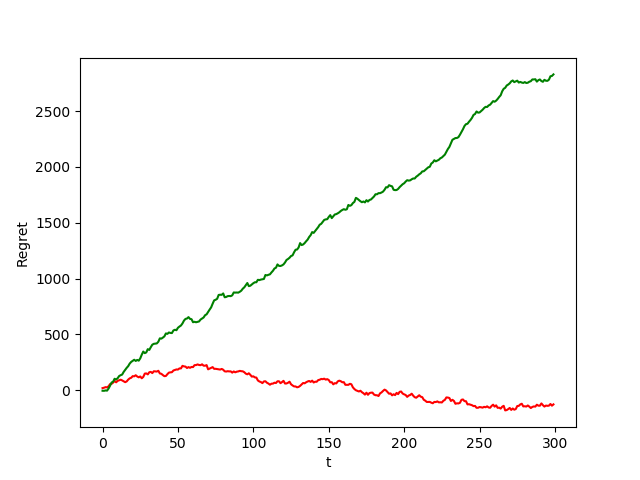
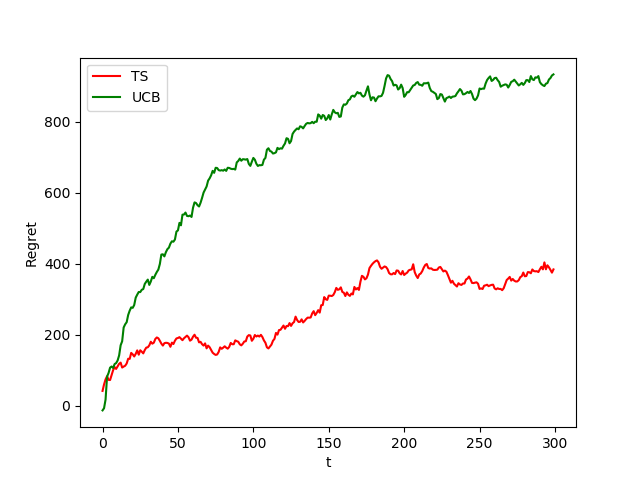
update ucb

diff --git a/simulator.py b/simulator.py
@@ -12,8 +12,8 @@ from pricing_env import UserClass
 import matplotlib.pyplot as plt
 from scipy.ndimage import uniform_filter1d
 
-np.random.seed(seed=1111)
-random.seed(1111)
+np.random.seed(seed=3259414887)
+#random.seed(1111)
 
 T = 100
 
@@ -102,284 +102,6 @@ class Simulator:
         opt = np.sum(opt)
         print(f"Bruteforce\n Max reward: {opt}\n Best configuration: {best_conf}")
         return opt, best_conf
-
-    def step2(self):
-        n_experiments = 1
-        time_horizon = 100
-        final_max_reward = 0
-        final_max_price_conf = np.zeros(self.n_products, dtype=np.int8)
-
-        for e in range(n_experiments):
-            learner = Greedy_Learner(self.n_prices, self.n_products)
-
-            print("Exp:", e)
-            temp_id = -1
-            max_reward = 0
-            temp_max = 0
-            max_price_conf = np.zeros(self.n_products, dtype=np.int8)
-            temp_max_conf = max_price_conf
-            counter = -1
-            price_conf_history = np.empty((0, self.n_products))
-
-            for t in range(time_horizon):
-                price_conf = learner.pull_arm(counter, max_price_conf)
-                reward = 0
-                if not price_conf.tolist() in price_conf_history.tolist():
-                    price_conf_history = np.concatenate(
-                        (price_conf_history, [price_conf]), axis=0)
-                    # reward, cr, none, none = self.simulate(price_conf, users=100)
-                    for i, j in enumerate(price_conf):
-                        reward += cf.margin[i, j] * cf.cr_mean[i, j] * cf.alphas_mean[i + 1]
-                        # print(reward)
-                    print(price_conf, np.round(reward, 2), np.sum(reward))
-                    # trova un nuovo max
-                    if counter == -1:
-                        max_reward = reward
-                        max_price_conf = price_conf
-                        learner.update()
-                    elif np.sum(reward) > np.sum(temp_max):
-                        temp_max = reward
-                        temp_max_conf = price_conf
-                        temp_id = counter
-
-                counter += 1
-
-                if counter == self.n_products:
-                    counter = 0
-                    if np.sum(temp_max) >= np.sum(max_reward):
-                        max_reward = temp_max
-                        max_price_conf = temp_max_conf
-                        temp_max = 0
-                        learner.update()
-                        # print(temp_id, np.round(max_reward,2), np.sum(max_reward))
-                    else:
-                        break
-            # print("Max price conf:", max_price_conf, "Max reward:", max_reward, "Max total:", np.sum(max_reward))
-            print()
-
-            if np.sum(max_reward) > np.sum(final_max_reward):
-                final_max_price_conf = max_price_conf
-                final_max_reward = max_reward
-
-        opt_reward = 0
-        for i in range(100):
-            print("Greedy:", i)
-            reward, _, _, _, _, _, _ = self.simulate(final_max_price_conf, users=100)
-            opt_reward += reward
-        opt_reward /= 100
-
-        print(
-            f"Final max reward {opt_reward}\nOpt Reward {np.sum(opt_reward)}\n\nFinal price conf {final_max_price_conf}\n")
-
-        return opt_reward, final_max_price_conf
-
-    # Pullare un arm per ogni prodotto -> [0, 2, 1, 4, 0]
-    # Simulare un round con la price conf pullata -> simulate(price_conf=[0, 2, 1, 4, 0])
-    # Per ogni prodotto ritornare se è stato comprato o no -> [1, 0, 0, 1, 0]
-    # E calcolare il reward di ogni prodotto
-    # Aggiornare le beta
-
-    def step3(self):
-        n_experiments = 1
-        time_horizon = T
-
-        rewardsTS_exp = []
-        rewardsUCB_exp = []
-
-        for e in range(n_experiments):
-            # learners = [TS_Learner(self.n_prices) for i in range(self.n_products)]
-            ts = [TS_Learner(self.n_prices, cf.alphas_mean[i], cf.sold_items_mean[i]) for i in range(self.n_products)]
-            ucb = [UCB(self.n_prices, cf.alphas_mean[i], cf.sold_items_mean[i]) for i in range(self.n_products)]
-
-            print("Exp:", e)
-
-            rewardsTS = np.array([])
-            rewardsUCB = np.array([])
-
-            for t in range(time_horizon):
-                # TS Learner
-                price_conf = np.array([ts[i].pull_arm(cf.margin[i]) for i in range(self.n_products)])
-                reward, buyers, offers, _, _, _, _ = self.simulate(price_conf)
-                for p in range(self.n_products):
-                    ts[p].update(price_conf[p], reward[p], buyers[p], offers[p])
-                rewardsTS = np.append(rewardsTS, np.sum(reward))
-                print(t)
-                print("TS: ", price_conf)
-                # print("Reward: ", reward)
-                # print(price_conf, reward, cr)
-
-            for t in range(time_horizon):
-                # UCB
-                price_conf = np.array([ucb[i].pull_arm(cf.margin[i]) for i in range(self.n_products)])
-                reward, buyers, offers, _, _, _, _ = self.simulate(price_conf)
-                for p in range(self.n_products):
-                    ucb[p].update(price_conf[p], reward[p], buyers[p], offers[p])
-                rewardsUCB = np.append(rewardsUCB, np.sum(reward))
-                print(t)
-                print("UCB: ", price_conf)
-
-                # print("Reward: ", reward)
-
-            rewardsTS_exp.append(rewardsTS)
-            rewardsUCB_exp.append(rewardsUCB)
-            # ts[1].plot_distribution()
-            # ucb[1].plot_distribution()
-            # print("Rewards", rewardsTS)
-            # print("Rewards", rewardsUCB)
-        return rewardsTS_exp, rewardsUCB_exp
-
-    def step4(self):
-        n_experiments = 1
-        time_horizon = T
-
-        rewardsTS_exp = []
-        rewardsUCB_exp = []
-
-        for e in range(n_experiments):
-            # learners = [TS_Learner(self.n_prices) for i in range(self.n_products)]
-            ts = [TS_Learner(self.n_prices) for i in range(self.n_products)]
-            ucb = [UCB(self.n_prices) for i in range(self.n_products)]
-
-            print("Exp:", e)
-
-            rewardsTS = np.array([])
-            rewardsUCB = np.array([])
-
-            for t in range(time_horizon):
-                # TS Learner
-                price_conf = np.array([ts[i].pull_arm(cf.margin[i]) for i in range(self.n_products)])
-                reward, buyers, offers, alphas, items, _, _ = self.simulate(price_conf)
-                for p in range(self.n_products):
-                    ts[p].update(price_conf[p], reward[p], buyers[p], offers[p], alphas[p], items[p])
-                rewardsTS = np.append(rewardsTS, np.sum(reward))
-                print(t)
-                print("TS: ", price_conf)
-                # print("Reward: ", reward)
-                # print(price_conf, reward, cr)
-
-            for t in range(time_horizon):
-                # UCB
-                price_conf = np.array([ucb[i].pull_arm(cf.margin[i]) for i in range(self.n_products)])
-                reward, buyers, offers, alphas, items, _, _ = self.simulate(price_conf)
-                for p in range(self.n_products):
-                    ucb[p].update(price_conf[p], reward[p], buyers[p], offers[p], alphas[p], items[p])
-                rewardsUCB = np.append(rewardsUCB, np.sum(reward))
-                # print(t)
-                print("UCB: ", price_conf)
-
-                # print("Reward: ", reward)
-
-            for i in range(5):
-                print(i)
-                print("Alpha:", ts[i].alpha)
-                print("Items:", ts[i].items)
-
-            rewardsTS_exp.append(rewardsTS)
-            rewardsUCB_exp.append(rewardsUCB)
-
-            # print("Rewards", rewardsTS)
-            # print("Rewards", rewardsUCB)
-        return rewardsTS_exp, rewardsUCB_exp
-
-    def step5(self):
-        n_experiments = 1
-        time_horizon = T
-
-        rewardsTS_exp = []
-        rewardsUCB_exp = []
-
-        for e in range(n_experiments):
-            # learners = [TS_Learner(self.n_prices) for i in range(self.n_products)]
-            ts = [TS_Learner(self.n_prices, cf.alphas_mean[i], cf.sold_items_mean[i]) for i in range(self.n_products)]
-            ucb = [UCB(self.n_prices) for i in range(self.n_products)]
-
-            print("Exp:", e)
-
-            rewardsTS = np.array([])
-            rewardsUCB = np.array([])
-
-            for t in range(time_horizon):
-                # TS Learner
-                price_conf = np.array([ts[i].pull_arm_step5(cf.margin[i]) for i in range(self.n_products)])
-                reward, buyers, offers, alphas, items, history, previous = self.simulate(price_conf)
-                graph_prob = self.estimate_probabilities(history, previous)
-                # print(graph_prob)
-
-                for p in range(self.n_products):
-                    ts[p].update(price_conf[p], reward[p], buyers[p], offers[p], graph=graph_prob[p])
-                rewardsTS = np.append(rewardsTS, np.sum(reward))
-                print(t)
-                print("TS: ", price_conf)
-                # print("Reward: ", reward)
-                # print(price_conf, reward, cr)
-
-            for t in range(time_horizon):
-                # UCB
-                price_conf = np.array([ucb[i].pull_arm(cf.margin[i]) for i in range(self.n_products)])
-                reward, buyers, offers, alphas, items, history, previous = self.simulate(price_conf)
-                for p in range(self.n_products):
-                    ucb[p].update(price_conf[p], reward[p], buyers[p], offers[p], graph=graph_prob[p])
-                rewardsUCB = np.append(rewardsUCB, np.sum(reward))
-                # print(t)
-                print("UCB: ", price_conf)
-
-                # print("Reward: ", reward)
-
-            rewardsTS_exp.append(rewardsTS)
-            rewardsUCB_exp.append(rewardsUCB)
-            # print("Rewards", rewardsTS)
-            # print("Rewards", rewardsUCB)
-        return rewardsTS_exp, rewardsUCB_exp
-
-    def step6(self):
-        n_experiments = 1
-        time_horizon = T
-
-        rewardsTS_exp = []
-        rewardsUCB_exp = []
-
-        for e in range(n_experiments):
-            # learners = [TS_Learner(self.n_prices) for i in range(self.n_products)]
-            sw = [SW_UCB(self.n_prices, 20, cf.alphas_mean[i], cf.sold_items_mean[i]) for i in range(self.n_products)]
-            cd = [CD_UCB(self.n_prices) for i in range(self.n_products)]
-
-            print("Exp:", e)
-
-            rewardsTS = np.array([])
-            rewardsUCB = np.array([])
-
-            for t in range(time_horizon):
-                # TS Learner
-                price_conf = np.array([sw[i].pull_arm(cf.margin[i]) for i in range(self.n_products)])
-                reward, buyers, offers, alphas, items, history, previous = self.simulate(price_conf)
-                graph_prob = self.estimate_probabilities(history, previous)
-                # print(graph_prob)
-
-                for p in range(self.n_products):
-                    sw[p].update(price_conf[p], reward[p], buyers[p], offers[p])
-                rewardsTS = np.append(rewardsTS, np.sum(reward))
-                print(t)
-                print("TS: ", price_conf)
-                # print("Reward: ", reward)
-                # print(price_conf, reward, cr)
-
-            for t in range(time_horizon):
-                # UCB
-                price_conf = np.array([cd[i].pull_arm(cf.margin[i]) for i in range(self.n_products)])
-                reward, buyers, offers, alphas, items, history, previous = self.simulate(price_conf)
-                for p in range(self.n_products):
-                    cd[p].update(price_conf[p], reward[p], buyers[p], offers[p])
-                rewardsUCB = np.append(rewardsUCB, np.sum(reward))
-                # print(t)
-                print("UCB: ", price_conf)
-
-                # print("Reward: ", reward)
-
-            rewardsTS_exp.append(rewardsTS)
-            rewardsUCB_exp.append(rewardsUCB)
-            # print("Rewards", rewardsTS)
-            # print("Rewards", rewardsUCB)
-        return rewardsTS_exp, rewardsUCB_exp
 
     def estimate_probabilities(self, dataset, previous):
         credits = np.zeros((self.n_products, self.n_products))

diff --git a/UCB.py b/UCB.py
@@ -7,6 +7,7 @@ class UCB(Learner):
         self.empirical_means = np.zeros(n_arms)
         self.confidence = np.array([np.inf]*n_arms)
         self.pulls = np.zeros(n_arms)
+        self.total_offers = np.zeros(n_arms)
 
         if np.all(alpha != None): 
             self.alpha = alpha
@@ -27,7 +28,7 @@ class UCB(Learner):
 
     def pull_arm(self, margin):
         upper_conf = self.empirical_means + self.confidence
-        return np.argmax(upper_conf*margin)
+        return np.argmax(upper_conf*margin*self.alpha*self.items)
         #return np.random.choice(np.where(upper_conf == upper_conf.max()))
 
     def pull_arm_step5(self, margin):
@@ -38,18 +39,20 @@ class UCB(Learner):
     def update(self, pulled_arm, reward, buyers, offers, alpha=None, items=None, graph=None):
         self.t += 1
         self.pulls[pulled_arm] += 1
+        self.total_offers[pulled_arm] += offers
+
         # for i in range(0, buyers.astype(int)):
         #    self.empirical_means[pulled_arm] = (self.empirical_means[pulled_arm] * (self.t - 1) + 1) / self.t
         # for i in range(0, (offers.astype(int) - buyers.astype(int))):
         #    self.empirical_means[pulled_arm] = (self.empirical_means[pulled_arm]* (self.t - 1) + 0)/self.t
 
-        self.empirical_means[pulled_arm] = np.mean(self.rewards_per_arm[pulled_arm])
-        #self.empirical_means[pulled_arm] = (self.empirical_means[pulled_arm] * (self.pulls[pulled_arm]-1) + buyers/offers)/self.pulls[pulled_arm]
+        #self.empirical_means[pulled_arm] = np.mean(self.rewards_per_arm[pulled_arm])
+        self.empirical_means[pulled_arm] = (self.empirical_means[pulled_arm] * (self.total_offers[pulled_arm]-offers) + buyers)/self.total_offers[pulled_arm]
 
 
         for a in range(self.n_arms):
             #n_samples = len(self.rewards_per_arm[a])
-            n_samples = self.pulls[a]
+            n_samples = self.total_offers[a]
             self.confidence[a] = (2*np.log(self.t)/n_samples)**0.5 if n_samples>0 else np.inf
         self.update_observations(pulled_arm,reward)
 

diff --git a/SW_UCB.py b/SW_UCB.py
@@ -37,7 +37,10 @@ class SW_UCB(UCB):
         
         for arm in range(self.n_arms):
             # Mean of rewards
-            self.empirical_means[arm] = np.mean(self.rewards_per_arm[arm][-self.window_size:])
+            if len(self.rewards_per_arm[arm]):
+                self.empirical_means[arm] = 0
+            else:
+                self.empirical_means[arm] = np.mean(self.rewards_per_arm[arm][-self.window_size:])
 
             # Mean of conversion rates
             #self.empirical_means[arm] = np.sum(self.pulled_arms[-self.window_size:, 1])

diff --git a/main.py b/main.py
@@ -25,6 +25,7 @@ def main():
             opt, best_price_conf = sim.bruteforce()
             rewardsTS, rewardsUCB = step_3()
             plot_regret(opt, rewardsTS, rewardsUCB)
+            print(np.random.get_state()[1][0])
             break
 
         elif step == 4:
